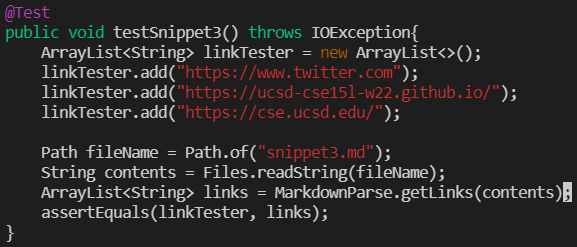
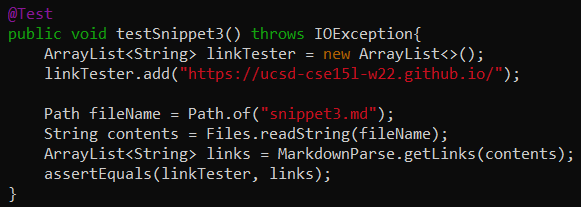
added commonMark expected outputs, and updated snippet 3 tests/fails

Changed region(s): [[0.0, 0.0, 0.9983, 0.8986], [0.0, 0.8986, 0.0312, 0.9855]]

diff --git a/Week_8_Lab_Report.md b/Week_8_Lab_Report.md
@@ -15,7 +15,9 @@
 [`code]`](ucsd.edu)
 ```
 
-When inputted into the method `getLinks()`, this code should be producing an `ArrayList<String>` with the links `[google.com, google.com, ucsd.edu]`.
+Expected Outcome (according to CommonMarkDemo): ``[`google.com, google.com, ucsd.edu]``
+
+![image](images/lab_8_snip1_commonMark.png)
 
 ### **My Implementation**
 
@@ -46,7 +48,9 @@ When inputted into the method `getLinks()`, this code should be producing an `Ar
 [some escaped \[ brackets \]](example.com)
 ```
 
-When inputted into the method `getLinks()`, this code should be producing an `ArrayList<String>` with the links `[a.com, a.com(()), example.com]`.
+Expected Outcome (according to CommonMarkDemo): `[a.com, a.com(()), example.com]`
+
+![image](images/lab_8_snip2_commonMark.png)
 
 ### **My Implementation**
 
@@ -95,6 +99,11 @@ And there's still some more text after that.
 
 And then there's more text
 ```
+
+Expected Outcome (according to CommonMarkDemo): `[https://ucsd-cse15l-w22.github.io/]`
+
+![image](images/lab_8_snip3_commonMark.png)
+
 ### **My Implementation**
 
 **Test:**
@@ -131,4 +140,4 @@ I think that I could make a small code change to make my program work and compat
 * Do you think there is a small (<10 lines) code change that will make your program work for snippet 3 and all related cases that have newlines in brackets and parentheses? If yes, describe the code change. If not, describe why it would be a more involved change.
 
 **My Answer:**
-I don't think that I could make a small code change to allow my program to work for snippet 3 because the program would need to use more if statements in order to check the syntax and placement of the brackets and parentheses, and there are a lot of cases that this program would have to check for in order to not include the wrong links. Also, my line-break check (for `\n`) in my current code would have it that none of these links are actually valid because there are new lines in between the brackets and in between the parentheses, but however, my preview for snippet 3 shows that these are still valid links that should be included in the parse.
+I don't think that I could make a small code change to allow my program to work for snippet 3 because the program would need to use more if statements in order to check the syntax and placement of the brackets and parentheses, and there are a lot of cases that this program would have to check for in order to not include the wrong links. Also, my line-break check (for `\n`) in my current code would have it that none of these links are actually valid because there are new lines in between the brackets and in between the parentheses, but however, my preview for snippet 3 shows that the link for the CSE15l website should be valid.
